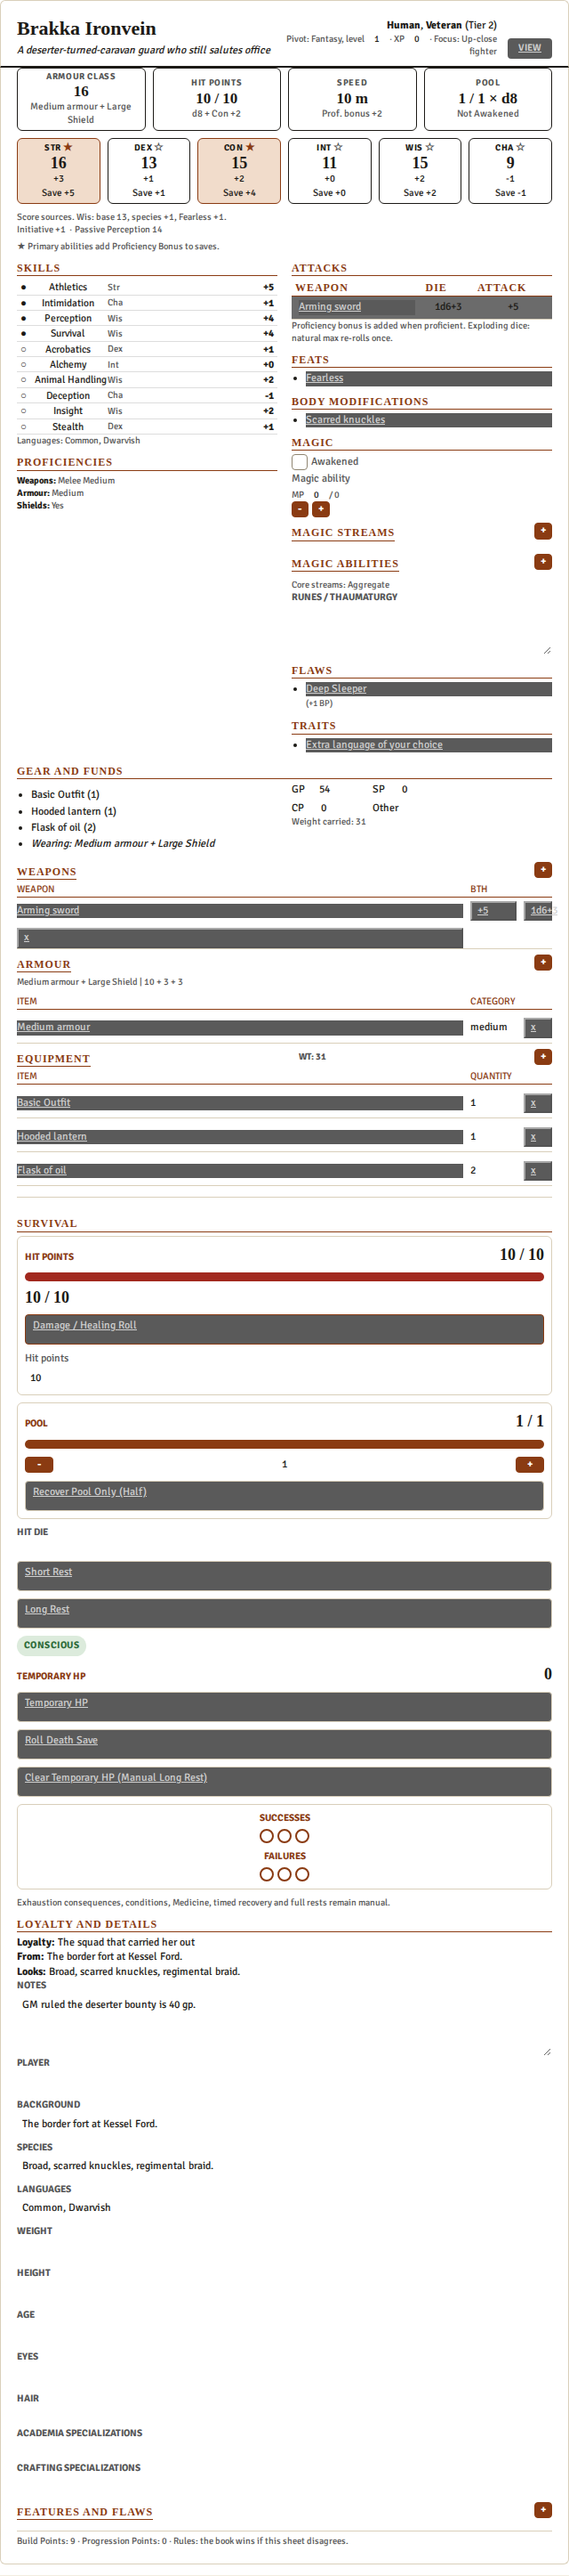
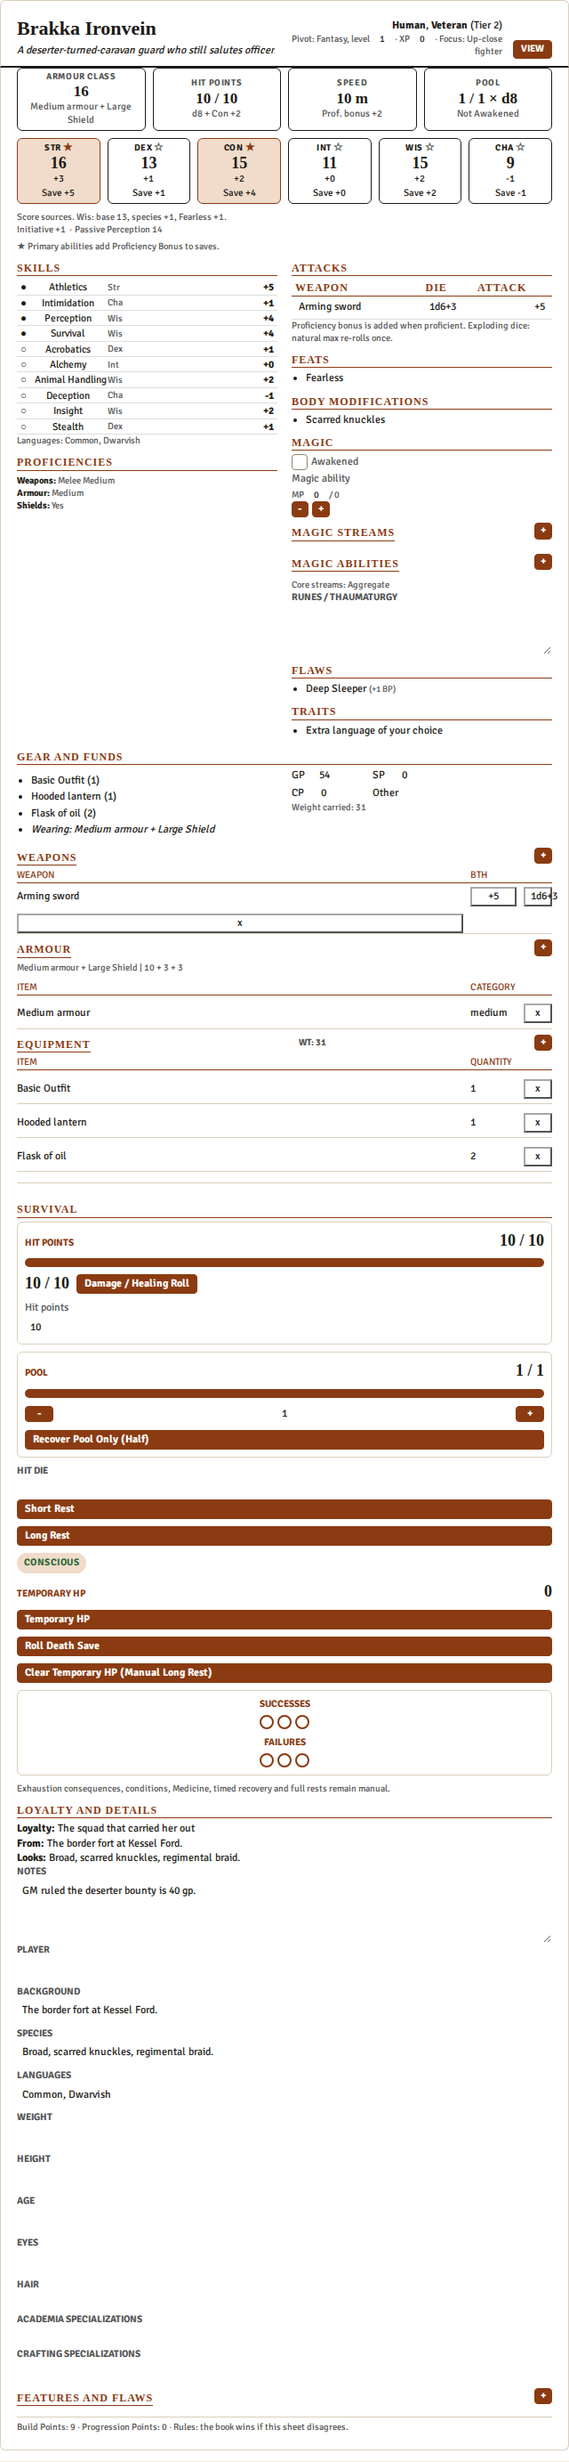
fix: keep print-sheet links and table rows on paper
Foundry button and cell rules still painted flaws, traits, and attack rows as grey bars. Links stay ink with no fill or underline, table cells stay white with a thin rule, and action buttons stay rust.

diff --git a/styles/pivot-fantasy.css b/styles/pivot-fantasy.css
@@ -1994,3 +1994,150 @@
   justify-content: start;
   width: max-content;
 }
+
+:is(body, body.theme-dark, body.theme-light)
+  .pivot-fantasy.sheet.actor.character
+  .window-content
+  .pf-print
+  table
+  tbody
+  tr,
+:is(body, body.theme-dark, body.theme-light)
+  .pivot-fantasy.sheet.actor.character
+  .window-content
+  .pf-print
+  table
+  tbody
+  tr:nth-child(odd),
+:is(body, body.theme-dark, body.theme-light)
+  .pivot-fantasy.sheet.actor.character
+  .window-content
+  .pf-print
+  table
+  tbody
+  tr:nth-child(even) {
+  background: transparent;
+}
+
+:is(body, body.theme-dark, body.theme-light)
+  .pivot-fantasy.sheet.actor.character
+  .window-content
+  .pf-print
+  table
+  tbody
+  tr:nth-child(odd)
+  td,
+:is(body, body.theme-dark, body.theme-light)
+  .pivot-fantasy.sheet.actor.character
+  .window-content
+  .pf-print
+  table
+  tbody
+  tr:nth-child(even)
+  td {
+  background: #fff;
+  border-bottom: 1px solid #ddd;
+  color: #1c1a16;
+  text-align: left;
+}
+
+:is(body, body.theme-dark, body.theme-light)
+  .pivot-fantasy.sheet.actor.character
+  .window-content
+  .pf-print
+  table
+  tbody
+  tr:nth-child(odd)
+  td.pf-r,
+:is(body, body.theme-dark, body.theme-light)
+  .pivot-fantasy.sheet.actor.character
+  .window-content
+  .pf-print
+  table
+  tbody
+  tr:nth-child(even)
+  td.pf-r {
+  text-align: right;
+}
+
+:is(body, body.theme-dark, body.theme-light)
+  .pivot-fantasy.sheet.actor.character
+  .window-content
+  .pf-print
+  :is(button, a) {
+  background: transparent;
+  box-shadow: none;
+  color: #1c1a16;
+  display: inline;
+  flex: 0 0 auto;
+  text-decoration: none;
+  width: auto;
+}
+
+:is(body, body.theme-dark, body.theme-light)
+  .pivot-fantasy.sheet.actor.character
+  .window-content
+  .pf-print
+  :is(.pf-link, .pf-item-name, .pf-roll):hover {
+  color: #8a3b12;
+}
+
+:is(body, body.theme-dark, body.theme-light)
+  .pivot-fantasy.sheet.actor.character
+  .window-content
+  .pf-print
+  :is(input:not([type="checkbox"]), select, textarea) {
+  background: transparent;
+  box-shadow: none;
+  color: #1c1a16;
+}
+
+:is(body, body.theme-dark, body.theme-light)
+  .pivot-fantasy.sheet.actor.character
+  .window-content
+  .pf-print
+  input[type="checkbox"] {
+  background: #fff;
+}
+
+:is(body, body.theme-dark, body.theme-light)
+  .pivot-fantasy.sheet.actor.character
+  .window-content
+  .pf-print
+  :is(.pf-sheet-button, .pf-edit-toggle) {
+  background: #8a3b12;
+  border: 1px solid #8a3b12;
+  border-radius: 4px;
+  color: #fff;
+  display: inline-flex;
+  flex: 0 0 auto;
+  font-weight: 700;
+  min-height: 0;
+  padding: 2px 8px;
+  text-decoration: none;
+  width: auto;
+}
+
+:is(body, body.theme-dark, body.theme-light)
+  .pivot-fantasy.sheet.actor.character
+  .window-content
+  .pf-print
+  .pf-meter {
+  background: #f1dccb;
+}
+
+:is(body, body.theme-dark, body.theme-light)
+  .pivot-fantasy.sheet.actor.character
+  .window-content
+  .pf-print
+  .pf-meter-fill {
+  background: #8a3b12;
+}
+
+:is(body, body.theme-dark, body.theme-light)
+  .pivot-fantasy.sheet.actor.character
+  .window-content
+  .pf-print
+  .pf-status {
+  background: #f1dccb;
+}
